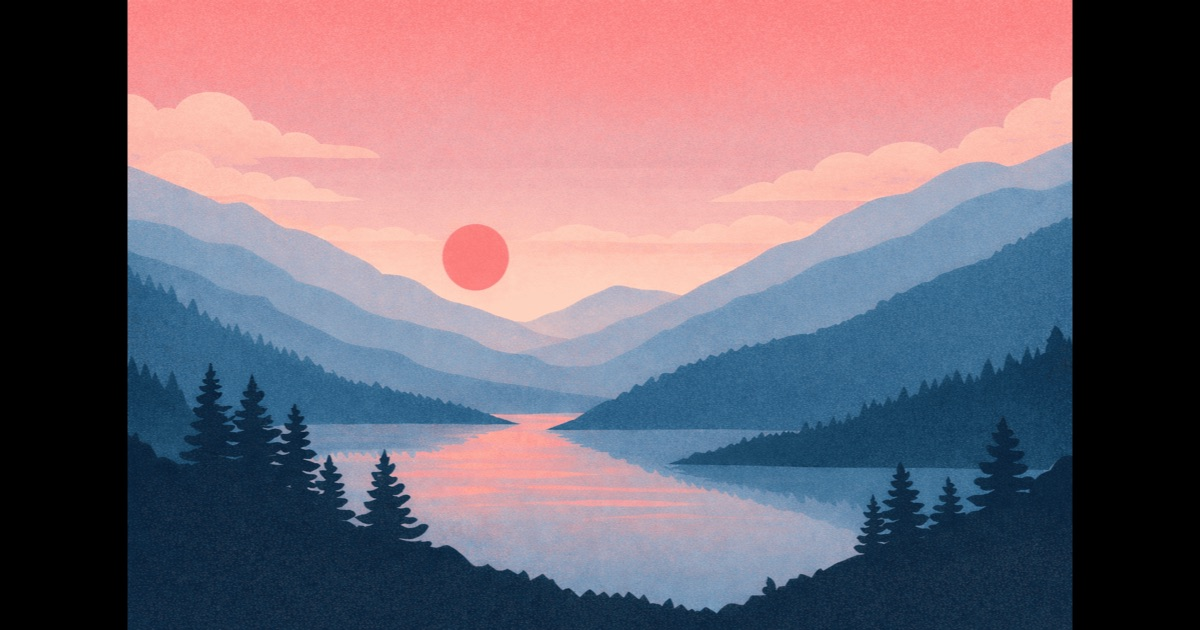
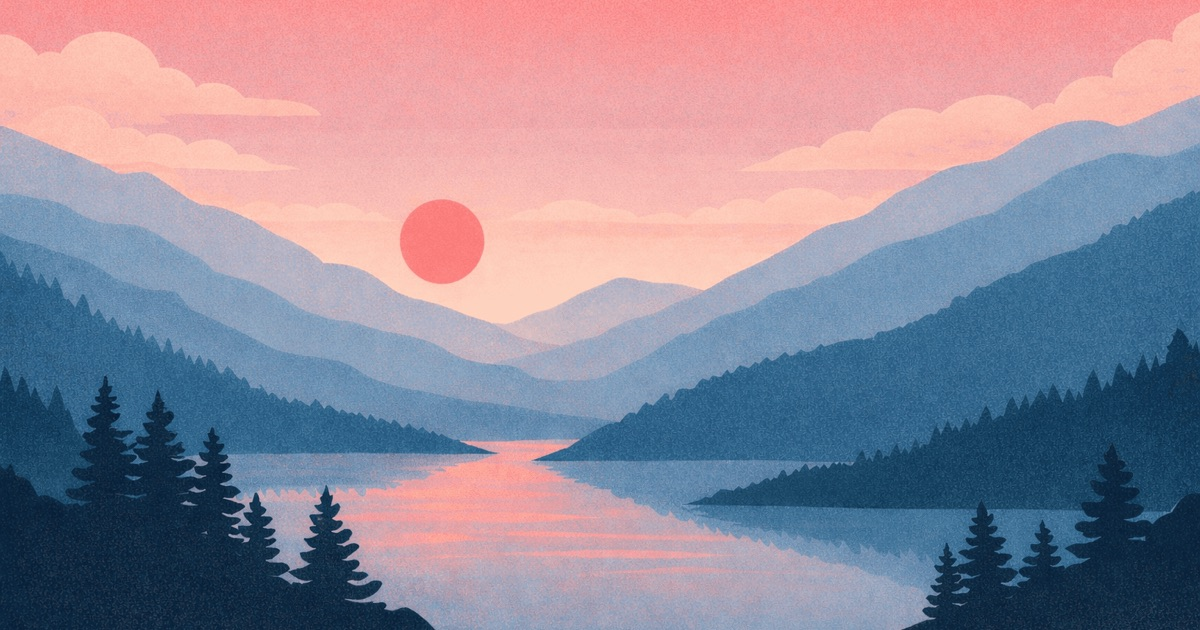
fix : Image OG recadrée + description raccourcie

diff --git a/nuxt.config.ts b/nuxt.config.ts
@@ -50,16 +50,16 @@ export default defineNuxtConfig({
         { charset: 'utf-8' },
         { name: 'viewport', content: 'width=device-width, initial-scale=1' },
         { name: 'google-site-verification', content: '6ptMFJEjzSqdeWEAtJY4t7a79p5OQ6816u0Is4HT1_4' },
-        { name: 'description', content: 'Léya connecte patients et praticiens en médecines alternatives. Prenez rendez-vous, consultez notre chatbot IA et trouvez la thérapie naturelle qui vous correspond.' },
+        { name: 'description', content: 'Léya connecte patients et praticiens en médecines alternatives. Chatbot IA, prise de rendez-vous et thérapies naturelles adaptées à vos besoins.' },
         { property: 'og:type', content: 'website' },
         { property: 'og:site_name', content: 'Léya' },
         { property: 'og:title', content: 'Léya — La médecine alternative, intelligente et accessible' },
-        { property: 'og:description', content: 'Léya connecte patients et praticiens en médecines alternatives. Prenez rendez-vous, consultez notre chatbot IA et trouvez la thérapie naturelle qui vous correspond.' },
+        { property: 'og:description', content: 'Léya connecte patients et praticiens en médecines alternatives. Chatbot IA, prise de rendez-vous et thérapies naturelles adaptées à vos besoins.' },
         { property: 'og:url', content: 'https://leya-sante.fr' },
         { property: 'og:image', content: 'https://leya-sante.fr/og-image.jpg' },
         { name: 'twitter:card', content: 'summary_large_image' },
         { name: 'twitter:title', content: 'Léya — La médecine alternative, intelligente et accessible' },
-        { name: 'twitter:description', content: 'Léya connecte patients et praticiens en médecines alternatives. Prenez rendez-vous, consultez notre chatbot IA et trouvez la thérapie naturelle qui vous correspond.' },
+        { name: 'twitter:description', content: 'Léya connecte patients et praticiens en médecines alternatives. Chatbot IA, prise de rendez-vous et thérapies naturelles adaptées à vos besoins.' },
         { name: 'twitter:image', content: 'https://leya-sante.fr/og-image.jpg' },
       ],
       link: [

diff --git a/app/pages/index.vue b/app/pages/index.vue
@@ -38,15 +38,15 @@
 
 useSeoMeta({
   title: 'Léya — La médecine alternative, intelligente et accessible',
-  description: 'Léya connecte patients et praticiens en médecines alternatives. Prenez rendez-vous, consultez notre chatbot IA et trouvez la thérapie naturelle qui vous correspond.',
+  description: 'Léya connecte patients et praticiens en médecines alternatives. Chatbot IA, prise de rendez-vous et thérapies naturelles adaptées à vos besoins.',
   ogTitle: 'Léya — La médecine alternative, intelligente et accessible',
-  ogDescription: 'Léya connecte patients et praticiens en médecines alternatives. Prenez rendez-vous, consultez notre chatbot IA et trouvez la thérapie naturelle qui vous correspond.',
+  ogDescription: 'Léya connecte patients et praticiens en médecines alternatives. Chatbot IA, prise de rendez-vous et thérapies naturelles adaptées à vos besoins.',
   ogImage: 'https://leya-sante.fr/og-image.jpg',
   ogUrl: 'https://leya-sante.fr',
   ogType: 'website',
   twitterCard: 'summary_large_image',
   twitterTitle: 'Léya — La médecine alternative, intelligente et accessible',
-  twitterDescription: 'Léya connecte patients et praticiens en médecines alternatives. Prenez rendez-vous, consultez notre chatbot IA et trouvez la thérapie naturelle qui vous correspond.',
+  twitterDescription: 'Léya connecte patients et praticiens en médecines alternatives. Chatbot IA, prise de rendez-vous et thérapies naturelles adaptées à vos besoins.',
   twitterImage: 'https://leya-sante.fr/og-image.jpg',
 })
 
